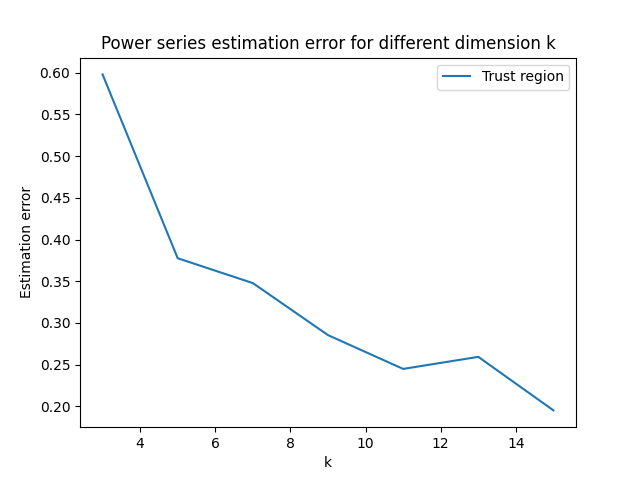
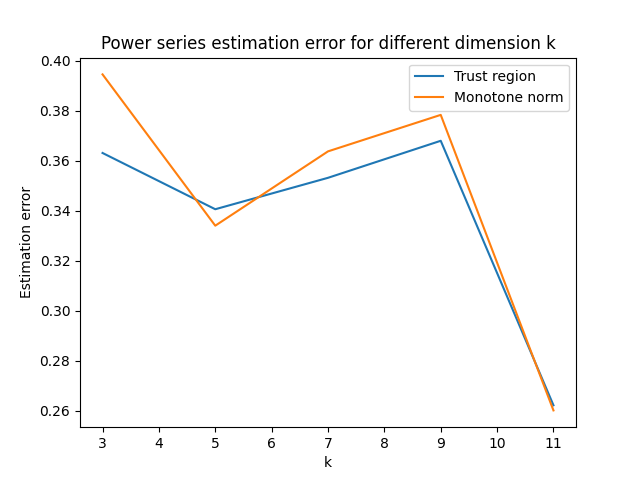
omg fix objective

diff --git a/src/cubic_reg.py b/src/cubic_reg.py
@@ -98,7 +98,7 @@ class Algorithm:
             except TypeError:
                 raise TypeError('x0 is not a valid input to the hessian. Is the hessian a function with input dimension '
                                 'length(x0)?')
-        if not (self.conv_criterion == 'gradient' or self.conv_criterion == 'decrement'):
+        if not (self.conv_criterion == 'function' or self.conv_criterion == 'gradient' or self.conv_criterion == 'decrement'):
             raise ValueError('Invalid input for convergence criterion')
         if not (self.aux_method == "trust_region" or self.aux_method == "monotone_norm"):
             raise ValueError("No such method for solving the auxiliary problem")
@@ -147,14 +147,19 @@ class Algorithm:
         lambda_n = scipy.linalg.eigh(self.hess_x, eigvals_only=True, eigvals=(0, 0))
         return max(-lambda_n[0], 0), lambda_n
 
-    def _check_convergence(self, lambda_min, M):
+    def _check_convergence(self, x_old, x_new):
         """
         Check whether the cubic regularization algorithm has converged
         :param lambda_min: Minimum eigenvalue at current point
         :param M: Current value used for M in cubic upper approximation to f at x_new
         :return: True/False depending on whether the convergence criterion has been satisfied
         """
-        if self.conv_criterion == 'gradient':
+        if self.conv_criterion == 'function':
+            if self.f(x_new) > self.f(x_old):
+                return True
+            else:
+                return False
+        elif self.conv_criterion == 'gradient':
             if np.linalg.norm(self.grad_x) <= self.conv_tol:
                 return True
             else:
@@ -203,14 +208,19 @@ class CubicRegularization(Algorithm):
             self.grad_x = self.gradient(x_new)
             self.hess_x = self.hessian(x_new)
             self.f_x = self.f(x_new)
-            self.lambda_nplus, lambda_min = self._compute_lambda_nplus()
-            converged = self._check_convergence(lambda_min, mk)
+            converged = self._check_convergence(x_old, x_new)
             if flag != 0:
                 print(RuntimeWarning('Convergence criteria not met, likely due to round-off error or ill-conditioned '
                                      'Hessian.'))
                 return x_new, intermediate_points, iter, flag
             intermediate_points.append(x_new)
             iter += 1
+        eigvals, eigvecs = scipy.linalg.eigh(self.hess_x)
+        if not (np.all(eigvals>=0)):
+            print(RuntimeWarning('Did not converge to a local minimum, likely a saddle point.'))
+            print("Hessian: \n", self.hess_x)
+            print("Gradient: \n", self.grad_x)
+            print("Eigenvalues:", eigvals)
         return x_new, intermediate_points, iter, flag
 
     def _find_x_new(self, x_old, mk):
@@ -361,7 +371,7 @@ class _AuxiliaryProblem:
             # Compute the eigenvalues and the eigenvectors of the Hessian
             try:
                 eigvals, eigvecs = scipy.linalg.eigh(self.hess_x)
-                eigvals = np.where(eigvals<0, 1.0e-08, eigvals)
+                #eigvals = np.where(eigvals==0, 1.0e-08, eigvals)
             except:
                 raise RuntimeError("Failed to compute the eigenvalues of the hessian")
             # Diagonalize the Hessian
@@ -394,11 +404,8 @@ class _AuxiliaryProblem:
                 s = np.matmul(O.T, u)
             # Classify the stationary point w.r.t. second order optimality condition.
             else:
-                # Undefined, stay at the current point
-                if np.all(np.isclose(eigvals, 0)):
-                    s = eta
-                # Minimum, stay at the current point
-                elif np.all(eigvals > 0):
+                # Undefined or local minimum, stay at the current point
+                if np.all(np.isclose(eigvals, 0, 1.0e-08)) or np.all(eigvals>0):
                     s = eta
                 # Maximum or saddle point, move to the descent direction
                 else:

diff --git a/main.py b/main.py
@@ -14,16 +14,41 @@ def f(x):
             result += (A[i,j]*x[i]*x[j]-c)**2
     return result
 
-# To be able to replicate simulations.
-np.random.seed(2)
+np.random.seed(0)
 
+# Hyper-parameter of the polynomial
+n = 5
+a = np.random.uniform(-1,1,size=(n,n))
+A = (a + a.T)/2
+A[n-1, n-1] = 0
+c = 20
+x0 = np.random.uniform(-1,1,size=n)
+
+nb_minima = 30
+minima = np.zeros(nb_minima)
+
+dom_range = 1.e2
+for i in range(nb_minima):
+    #x0 = np.ones(n)
+    x0 = np.random.randint(-dom_range,dom_range,size=(n,))
+    cr = utils.CubicRegularization(x0, f=f, conv_tol=1e-8, L0=0.00001, aux_method="monotone_norm", verbose=0, conv_criterion='gradient', maxiter=10000)
+    x_opt, intermediate_points, n_iter, flag = cr.cubic_reg()
+    f_x_opt = f(x_opt)
+    print("Iterations:", n_iter, ", argmin of f:", x_opt, "i:", i)
+    minima[i] = f(x_opt)
+
+print("Local minima:", minima)
+print("Number of local minima found:", len(np.unique(minima)))
+print("Best local minimum:", np.min(minima))
+
+"""
 # Initialize multiple dimensions for experiments
 nb_experiments = 10
-N = np.arange(3, 33, 2)
+N = np.arange(3, 11, 2)
 nb_N = N.shape[0]
 
 # For collecting experiment data and plotting
-fig_name = "polynomial"
+fig_name = "polynomial_tust_region"
 time_tr = np.zeros((nb_experiments,nb_N))
 time_mn = np.zeros((nb_experiments,nb_N))
 estim_error_tr = np.zeros((nb_experiments,nb_N))
@@ -36,11 +61,14 @@ for i in range(nb_experiments):
         n = N[j]
         print("Experiment: ",i, ", n: ",n)
         # Initial point for cubic regularization
-        x0 = np.ones(n)
+        x0 = np.zeros(n)
+        #x0 = np.random.randint(-10,10,size=(n,))
         # Hyper-parameter of the polynomial
         a = np.random.randint(-10,10,size=(n,n))
         A = (a + a.T)/2
-        c = 2
+        A[n-1, n-1] = 0
+        print(A)
+        c = 20
 
         start_time = time.time()
         cr = utils.CubicRegularization(x0, f=f, conv_tol=1e-4, L0=0.00001, aux_method="trust_region", verbose=1, conv_criterion='gradient')
@@ -50,10 +78,10 @@ for i in range(nb_experiments):
         x_pows = np.power(np.ones(n)*x_opt[0], np.arange(1,n+1))
         print("Power series: ", x_pows)
         time_tr[i,j] = time.time() - start_time
-        estim_error_tr[i,j] = mse(x_opt, x_pows)
+        estim_error_tr[i,j] = f(x_opt)
         iters_tr[i,j] = n_iter
 
-        """start_time = time.time()
+        start_time = time.time()
         cr = utils.CubicRegularization(x0, f=f, conv_tol=1e-4, L0=0.00001, aux_method="monotone_norm", verbose=0, conv_criterion='gradient')
         x_opt, intermediate_points, n_iter, flag = cr.cubic_reg()
         print("\nMonotone norm\n", "Iterations:", n_iter, ", time:", time.time() - start_time, ", f_opt:", f(x_opt))
@@ -61,8 +89,8 @@ for i in range(nb_experiments):
         x_pows = np.power(np.ones(n)*x_opt[0], np.arange(1,n+1))
         print("Power series: ", x_pows)
         time_mn[i,j] = time.time() - start_time
-        estim_error_mn[i,j] = mse(x_opt, x_pows)
-        iters_mn[i,j] = n_iter"""
+        estim_error_mn[i,j] = f(x_opt)
+        iters_mn[i,j] = n_iter
 
 
 time_tr = np.average(time_tr, axis=0)
@@ -98,7 +126,7 @@ ax2.set_ylabel('Iterations')
 ax2.legend(loc='best')
 ax2.set_title("Iterations for different dimension k")
 plt.savefig("figures/iterations_"+fig_name+".png", format="png")
-
+"""
 
 """
 f_first = lambda th, y: f(th) + np.dot(grad(th), y-th)

diff --git a/example.py b/example.py
@@ -7,6 +7,22 @@ from scipy.optimize import rosen_hess as banana_hess
 
 import src.cubic_reg
 
+n = 2
+a = np.random.uniform(-1,1,size=(n,n))
+A = (a + a.T)/2
+#A = np.array([[1.,-3.],[-3., 0.]])
+c = 10
+
+def n_polynomial(x):
+    n = len(x)
+    result = 0
+    for i in range(1,n):
+        result += (x[i]-x[i-1]*x[0])**2
+    for i in range(0,n):
+        for j in range(0,n):
+            result += (A[i,j]*x[i]*x[j]-c)**2
+    return result
+
 def Ackley(x):
     """
     Ackley function, description can be found here: https://en.wikipedia.org/wiki/Test_functions_for_optimization
@@ -69,20 +85,17 @@ class Function:
             self.plot_y_lim = 2
             self.plot_nb_contours = 40
         elif function == 'polynomial':
-            n = 2
-            a = np.random.random_integers(-100,100,size=(n,n))
-            A = (a + a.T)/2
-            c = 2
-            self.f = lambda x: (x[1]-x[0]**2)**2+(A[0,0]*x[0]*x[0]-c)**2+(A[0,1]*x[0]*x[1]-c)**2+(A[1,0]*x[1]*x[0]-c)**2+(A[1,1]*x[1]*x[1]-c)**2
+            self.f = lambda x: n_polynomial(x)
             self.grad = None
             self.hess = None
             self.x0 = np.array([1.5, 1])
-            self.plot_x_lim = 10
-            self.plot_y_lim = 10
-            self.plot_nb_contours = 50
+            self.plot_x_lim = 2.5
+            self.plot_y_lim = 2.5
+            self.plot_nb_contours = 70
+            print('A:', A)
         else:
             raise TypeError('Invalid input type for function initialization')
-        self.cr = src.cubic_reg.CubicRegularization(self.x0, f=self.f, gradient=self.grad, hessian=self.hess, conv_tol=1e-4,
+        self.cr = src.cubic_reg.CubicRegularization(self.x0, f=self.f, gradient=self.grad, hessian=self.hess, maxiter=10000, conv_tol=1e-8,
                                                     L0=1.e-05, aux_method=aux_method, verbose=0, conv_criterion='gradient')
 
     def run(self):
@@ -90,6 +103,7 @@ class Function:
         Solve the cubic regularization problem
         """
         x_opt, intermediate_points, n_iter, flag = self.cr.cubic_reg()
+        print('Value of function:', self.f(x_opt))
         return x_opt, intermediate_points, n_iter
 
     def plot_points(self, intermediate_points):

diff --git a/test.py b/test.py
@@ -1,29 +1,42 @@
 import numpy as np
 import src.cubic_reg as utils
+import matplotlib.pyplot as plt
 
-def f(x):
+def polynomial(x):
     n = len(x)
-    c = 0
-    result = 0
+    term1, term2 = 0, 0
     for i in range(1,n):
-        result += (x[i]-x[i-1]*x[0])**2
+        term1 += (x[i]-x[i-1]*x[0])
     for i in range(0,n):
         for j in range(0,n):
-            result += (A[i,j]*x[i]*x[j]-c)**2
-    return result
+            term2 += (A[i,j]*x[i]*x[j]-c)
+    return term1**2+term2**2
 
-np.random.seed(3)
-n = 7
-a = np.random.randint(-100,100,size=(n,n))
+def f(x0):
+    x = np.power(np.ones(n)*x0, np.arange(1,n+1))
+    term2 = 0
+    for i in range(0,n):
+        for j in range(0,n):
+            term2 += (A[i,j]*x[i]*x[j]-c)
+    return term2**2
+
+#np.random.seed(3)
+n = 3
+a = np.random.uniform(-1,1,size=(n,n))
 A = (a + a.T)/2
+A[n-1, n-1] = 0
+c = 0
 x0 = np.random.randn(n)
-print("A: ", A)
 
-cr = utils.CubicRegularization(x0, f=f, conv_tol=1e-8, L0=0.00001, aux_method="monotone_norm", verbose=0, conv_criterion='gradient')
+T = np.arange(-1, 1, 0.01)
+f_t = np.array([f(t) for t in T])
+
+cr = utils.CubicRegularization(x0, f=polynomial, conv_tol=1e-8, L0=0.00001, aux_method="monotone_norm", verbose=0, conv_criterion='gradient')
 x_opt, intermediate_points, n_iter, flag = cr.cubic_reg()
-print("Argmin of function:", x_opt)
-x_pows = np.ones(n)*x_opt[0]
-x_rise = np.arange(1,n+1)
-x_pows = np.power(x_pows, x_rise)
-print("Power series:", x_pows)
-print("Iterations:", n_iter, ", f_opt:", f(x_opt))
+print(x_opt, f(x_opt))
+print(A)
+plt.figure()
+plt.axis([-0.7, 0.7, -0.005, 0.015])
+plt.plot(T, f_t)
+plt.scatter(x_opt[0], f(x_opt))
+plt.show()
